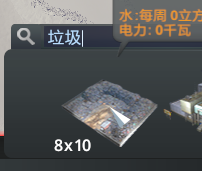
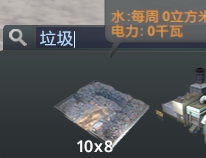
fixed conflict with the mass tagging checkboxes in Find It 2.

diff --git a/Code/Patches/SearchBarButtonText.cs b/Code/Patches/SearchBarButtonText.cs
@@ -28,7 +28,7 @@
                     {
                         sizelabel = component.Find<UILabel>("SizeLabel");
                     }
-                    else if (component.Find("UILabel") != null)
+                    else if (component.Find("UILabel") != null && component.Find("UILabel").name == "SizeLabel")
                     {
                         sizelabel = component.Find<UILabel>("UILabel");
                     }
@@ -77,7 +77,7 @@
                     {
                         sizelabel = component.Find<UILabel>("SizeLabel");
                     }
-                    else if (component.Find("UILabel") != null)
+                    else if (component.Find("UILabel") != null && component.Find("UILabel").name == "SizeLabel")
                     {
                         sizelabel = component.Find<UILabel>("UILabel");
                     }
@@ -93,7 +93,7 @@
                         sizelabel.isVisible = true;
                         sizelabel.name = "SizeLabel";
                         sizelabel.textScale = 1f;
-                        sizelabel.relativePosition = new Vector3(0, component.height - 20);
+                        sizelabel.relativePosition = new Vector3(30, component.height - 20);
                         sizelabel.text = size_str;
                     }
                     else

diff --git a/Code/Patches/ButtonText.cs b/Code/Patches/ButtonText.cs
@@ -66,7 +66,7 @@
                         sizelabel.isVisible = true;
                         sizelabel.name = "SizeLabel";
                         sizelabel.textScale = 1f;
-                        sizelabel.relativePosition = new Vector3(0, component.height - 20);
+                        sizelabel.relativePosition = new Vector3(30, component.height - 20);
                         sizelabel.text = size_str;
                     }
                     else

diff --git a/Properties/AssemblyInfo.cs b/Properties/AssemblyInfo.cs
@@ -32,5 +32,5 @@ using System.Runtime.InteropServices;
 //可以指定所有这些值，也可以使用“生成号”和“修订号”的默认值
 //通过使用 "*"，如下所示:
 //[assembly: AssemblyVersion("1.2.1.*")]
-[assembly: AssemblyVersion("1.2.1.0")]
-[assembly: AssemblyFileVersion("1.2.0.0")]
+[assembly: AssemblyVersion("1.2.2.0")]
+[assembly: AssemblyFileVersion("1.2.2.0")]
